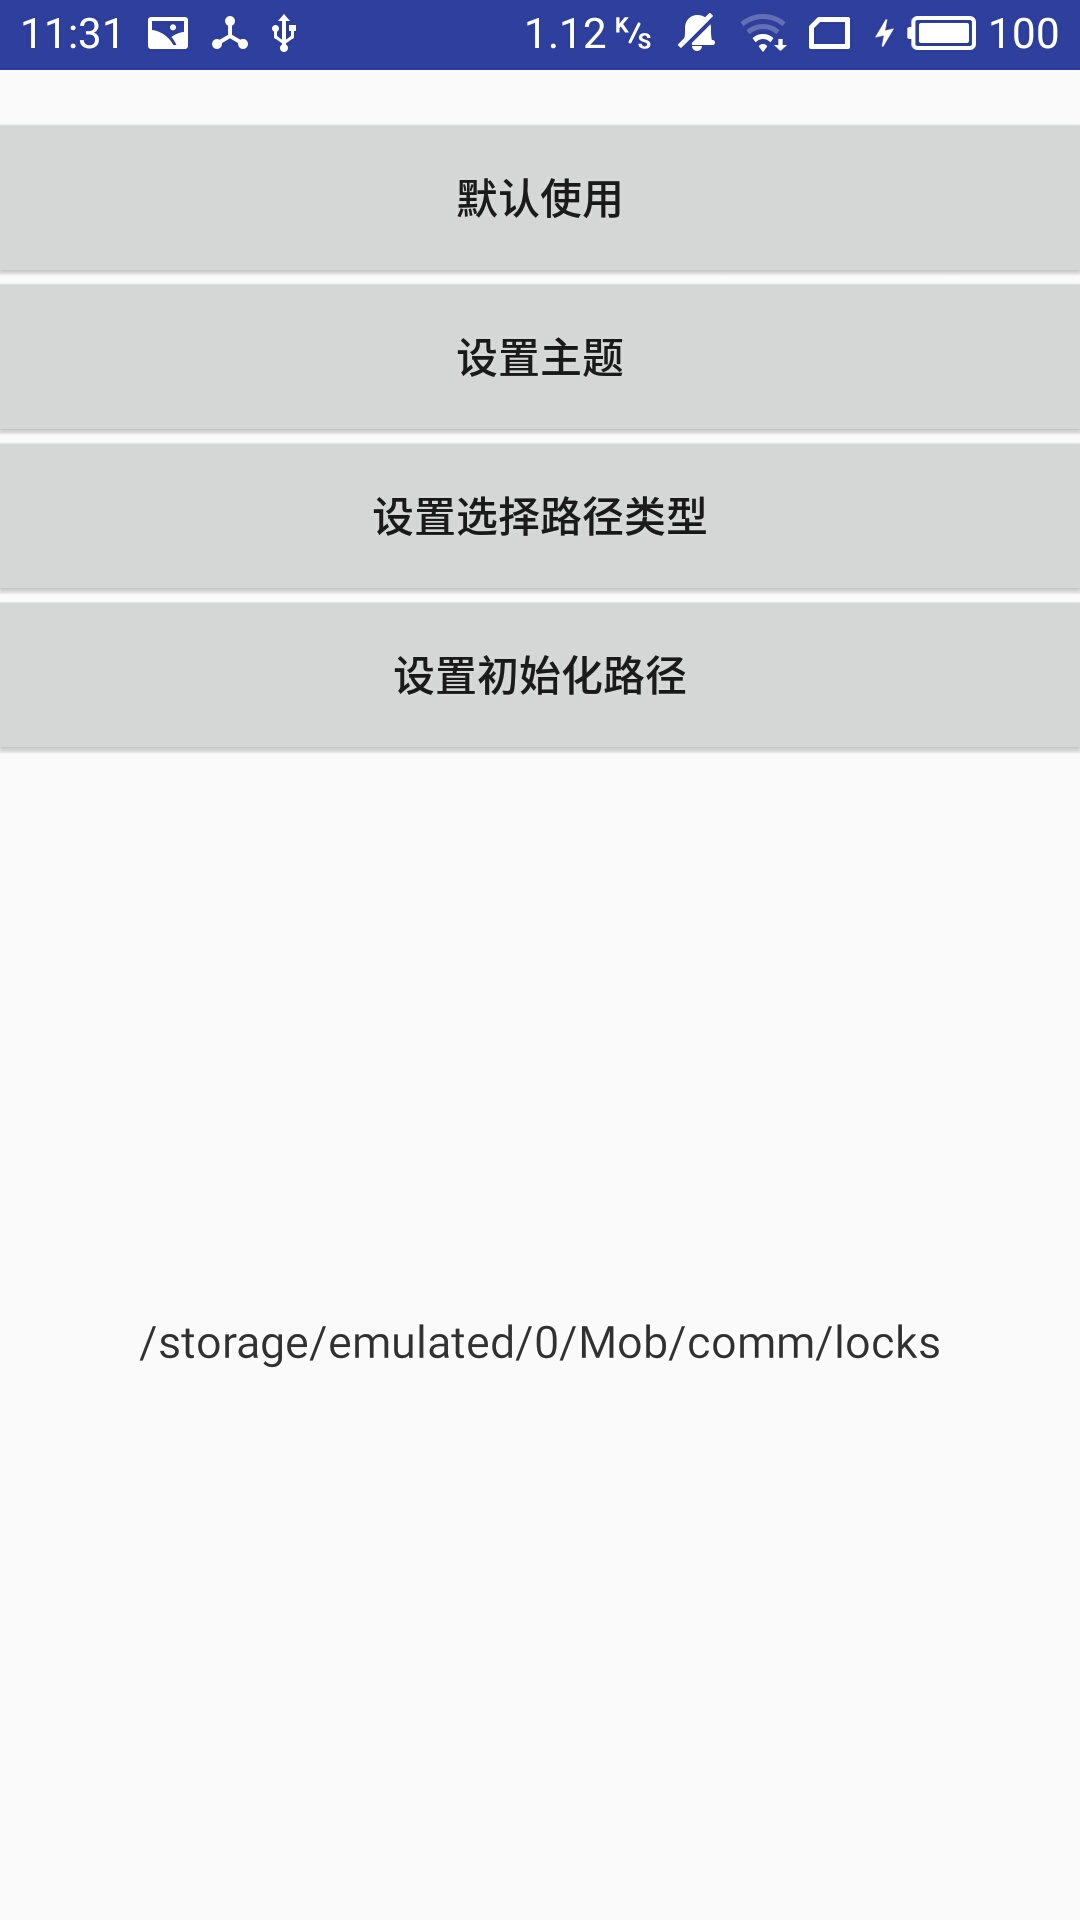
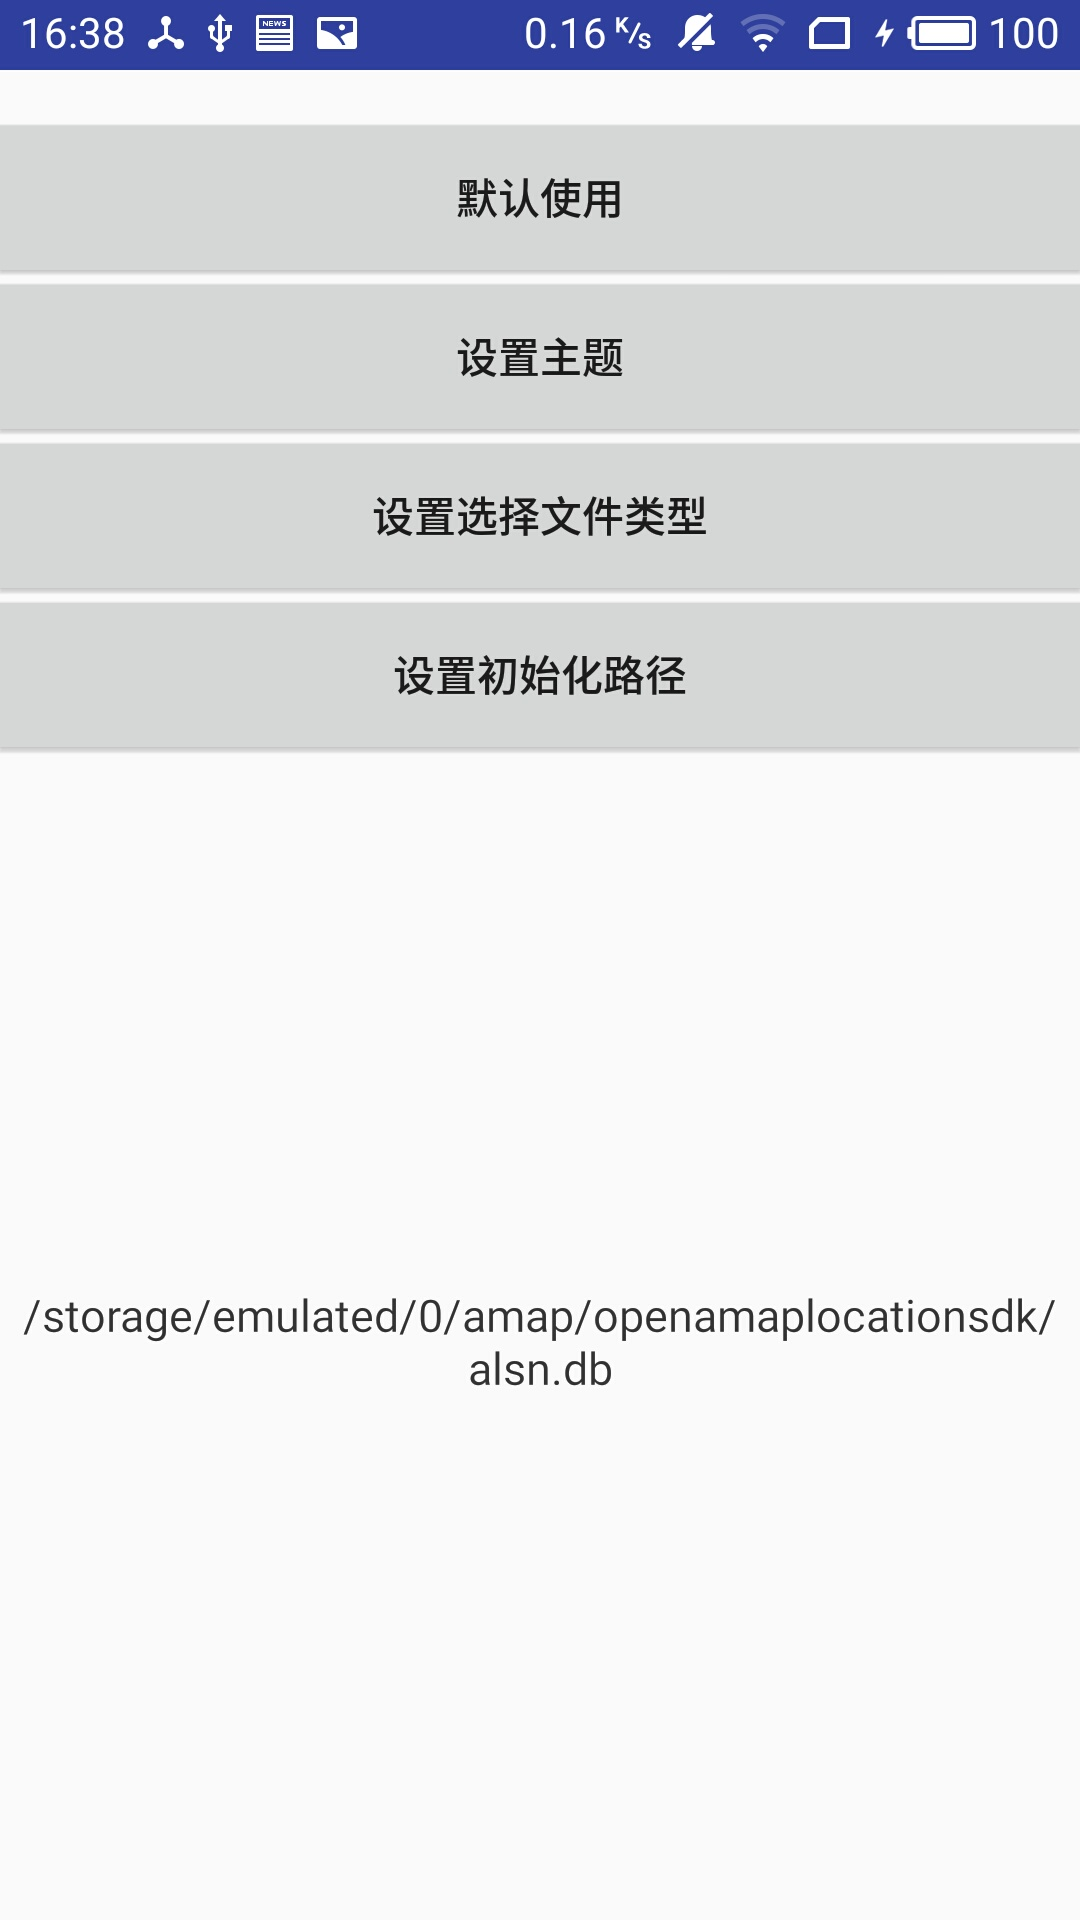
备注

diff --git a/filechooser/src/main/java/com/thl/filechooser/FileAdapter.java b/filechooser/src/main/java/com/thl/filechooser/FileAdapter.java
@@ -14,9 +14,9 @@ import static com.thl.filechooser.FileChooser.*;
 public class FileAdapter extends CommonAdapter<FileInfo> {
 
     private int sign = -1;
-    private int chooseType = 0;
+    private String chooseType;
 
-    public FileAdapter(Context context, ArrayList<FileInfo> dataList, int resId, int chooseType) {
+    public FileAdapter(Context context, ArrayList<FileInfo> dataList, int resId, String chooseType) {
         super(context, dataList, resId);
         this.chooseType = chooseType;
     }
@@ -47,6 +47,8 @@ public class FileAdapter extends CommonAdapter<FileInfo> {
         } else {
             imageView.setImageResource(R.drawable.format_other);
         }
+
+
         if (position != dataList.size() - 1) {
             divider.setVisibility(View.VISIBLE);
         } else {
@@ -59,28 +61,43 @@ public class FileAdapter extends CommonAdapter<FileInfo> {
         } else {
             fileChoose.setImageResource(R.drawable.log_choose_checkbox_off);
         }
-        boolean folder = data.isFolder();
-        switch (chooseType) {
-            case 0:
+
+        if (chooseType.equals(FileInfo.FILE_TYPE_ALL)) {
+            fileChoose.setVisibility(View.VISIBLE);
+        } else if (chooseType.equals(FileInfo.FILE_TYPE_FOLDER)) {
+            boolean folder = data.isFolder();
+            if (folder) {
                 fileChoose.setVisibility(View.VISIBLE);
-                break;
-            case 1:
-                if (folder) {
-                    fileChoose.setVisibility(View.VISIBLE);
-                } else {
-                    fileChoose.setVisibility(View.GONE);
-                }
-                break;
-            case 2:
-                if (!folder) {
-                    fileChoose.setVisibility(View.VISIBLE);
-                } else {
-                    fileChoose.setVisibility(View.GONE);
-                }
-                break;
-            default:
+            } else {
+                fileChoose.setVisibility(View.GONE);
+            }
+        } else if (chooseType.equals(FileInfo.FILE_TYPE_FILE)) {
+            boolean folder = data.isFolder();
+            if (!folder) {
                 fileChoose.setVisibility(View.VISIBLE);
-                break;
+            } else {
+                fileChoose.setVisibility(View.GONE);
+            }
+        } else if (chooseType.equals(FileInfo.FILE_TYPE_IMAGE)) {
+            if (FileInfo.FILE_TYPE_JPEG.equals(data.getFileType())
+                    || FileInfo.FILE_TYPE_JPG.equals(data.getFileType())
+                    || FileInfo.FILE_TYPE_PNG.equals(data.getFileType())) {
+                fileChoose.setVisibility(View.VISIBLE);
+            } else {
+                fileChoose.setVisibility(View.GONE);
+            }
+        }else if (chooseType.equals(FileInfo.FILE_TYPE_PACKAGE)) {
+            if (FileInfo.FILE_TYPE_ZIP.equals(data.getFileType()) || FileInfo.FILE_TYPE_RAR.equals(data.getFileType())) {
+                fileChoose.setVisibility(View.VISIBLE);
+            } else {
+                fileChoose.setVisibility(View.GONE);
+            }
+        } else {
+            if (chooseType.equals(data.getFileType())) {
+                fileChoose.setVisibility(View.VISIBLE);
+            } else {
+                fileChoose.setVisibility(View.GONE);
+            }
         }
 
         fileChoose.setOnClickListener(new View.OnClickListener() {

diff --git a/app/src/main/java/com/thl/demo/MainActivity.java b/app/src/main/java/com/thl/demo/MainActivity.java
@@ -10,6 +10,7 @@ import android.widget.TextView;
 import android.widget.Toast;
 
 import com.thl.filechooser.FileChooser;
+import com.thl.filechooser.FileInfo;
 
 
 public class MainActivity extends AppCompatActivity {
@@ -97,8 +98,23 @@ public class MainActivity extends AppCompatActivity {
                                 ((TextView) findViewById(R.id.tv_msg)).setText(filePath);
                             }
                         });
-                        fileChooser.setChooseType(FileChooser.FOLDER);
-                        fileChooser.showFile(false);
+
+//                          FILE_TYPE_FOLDER="type_folder";  //文件夹
+//                          FILE_TYPE_VIDEO="type_video";    //视频
+//                          FILE_TYPE_AUDIO="type_audio";    //音频
+//                          FILE_TYPE_FILE="type_file";      //全部文件
+//                          FILE_TYPE_APK="type_apk";        //apk
+//                          FILE_TYPE_ZIP="type_zip";        //zip
+//                          FILE_TYPE_RAR="type_rar";        //rar
+//                          FILE_TYPE_JPEG="type_jpeg";      //jpeg
+//                          FILE_TYPE_JPG="type_jpg";         //jpg
+//                          FILE_TYPE_PNG="type_png";         //png
+//
+//                          FILE_TYPE_ALL="type_all";         //所有文件
+//                           FILE_TYPE_IMAGE="type_image";    //所有图片
+//                           FILE_TYPE_PACKAGE="type_package";  //压缩包
+
+                        fileChooser.setChooseType(FileInfo.FILE_TYPE_FILE);
                         fileChooser.open();
                     }
 
@@ -126,7 +142,7 @@ public class MainActivity extends AppCompatActivity {
                             }
                         });
                         fileChooser.setCurrentPath(MainActivity.this.getExternalCacheDir().getAbsolutePath());
-
+                        fileChooser.showFile(false); //不显示文件
                         fileChooser.open();
                     }
 

diff --git a/filechooser/src/main/java/com/thl/filechooser/FileChooser.java b/filechooser/src/main/java/com/thl/filechooser/FileChooser.java
@@ -18,19 +18,16 @@ public class FileChooser {
     private int backIconRes = R.drawable.back_white;
     private boolean showFile = true;
 
-    public static int ALL = 0;  //所有可选
-    public static int FOLDER = 1;  //只可选文件夹
-    public static int FILE = 2;   //只可选文件
-    private int chooseType = ALL; //显示选择文件类型
 
-    public int getChooseType() {
+    private String chooseType = FileInfo.FILE_TYPE_ALL; //显示选择文件类型
+
+    public String getChooseType() {
         return chooseType;
     }
 
-    public void setChooseType(int chooseType) {
+    public void setChooseType(String chooseType) {
         this.chooseType = chooseType;
     }
-
 
     public boolean isFileShow() {
         return showFile;

diff --git a/filechooser/src/main/java/com/thl/filechooser/FileChooserActivity.java b/filechooser/src/main/java/com/thl/filechooser/FileChooserActivity.java
@@ -60,7 +60,7 @@ public class FileChooserActivity extends AppCompatActivity {
         String title = getIntent().getStringExtra("title");
         String doneText = getIntent().getStringExtra("doneText");
         int backIconRes = getIntent().getIntExtra("backIconRes", R.drawable.back_white);
-        int chooseType = getIntent().getIntExtra("chooseType", 0);
+        String chooseType = getIntent().getStringExtra("chooseType");
         int themeColorRes = getIntent().getIntExtra("themeColorRes", R.color.themeColor);
 
         tourController = new FileTourController(this, mChoosenFilePath);

diff --git a/filechooser/src/main/java/com/thl/filechooser/FileInfo.java b/filechooser/src/main/java/com/thl/filechooser/FileInfo.java
@@ -16,6 +16,12 @@ public class FileInfo {
     public static final String FILE_TYPE_JPG="type_jpg";
     public static final String FILE_TYPE_PNG="type_png";
 
+    public static final String FILE_TYPE_ALL="type_all";
+    public static final String  FILE_TYPE_IMAGE="type_image";
+    public static final String  FILE_TYPE_PACKAGE="type_package";
+
+
+
     private String fileType = FILE_TYPE_FOLDER;
     private boolean isFolder;
     private String fileName;

diff --git a/README.md b/README.md
@@ -40,8 +40,24 @@ dependencies {
                         fileChooser.setTitle("选择文件路径");
                         fileChooser.setDoneText("确定");
                         fileChooser.setThemeColor(R.color.colorAccent);
-                        fileChooser.setChooseType(FileChooser.FOLDER);
-                        fileChooser.showFile(false);
+
+   //                          FILE_TYPE_FOLDER="type_folder";  //文件夹
+   //                          FILE_TYPE_VIDEO="type_video";    //视频
+   //                          FILE_TYPE_AUDIO="type_audio";    //音频
+   //                          FILE_TYPE_FILE="type_file";      //全部文件
+   //                          FILE_TYPE_APK="type_apk";        //apk
+   //                          FILE_TYPE_ZIP="type_zip";        //zip
+   //                          FILE_TYPE_RAR="type_rar";        //rar
+   //                          FILE_TYPE_JPEG="type_jpeg";      //jpeg
+   //                          FILE_TYPE_JPG="type_jpg";         //jpg
+   //                          FILE_TYPE_PNG="type_png";         //png
+   //
+   //                          FILE_TYPE_ALL="type_all";         //所有文件
+   //                           FILE_TYPE_IMAGE="type_image";    //所有图片
+   //                           FILE_TYPE_PACKAGE="type_package";  //压缩包
+
+                        fileChooser.setChooseType(FileInfo.FILE_TYPE_FILE);
+                        fileChooser.showFile(false);  //是否显示文件
                         fileChooser.open();
 ```
 
